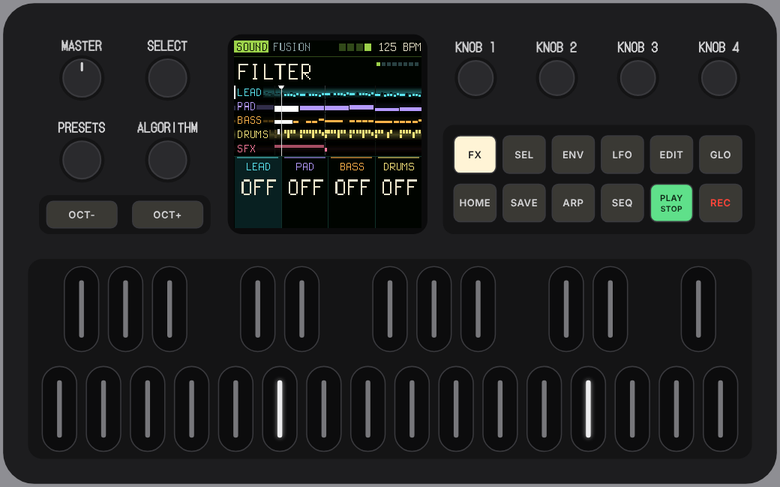
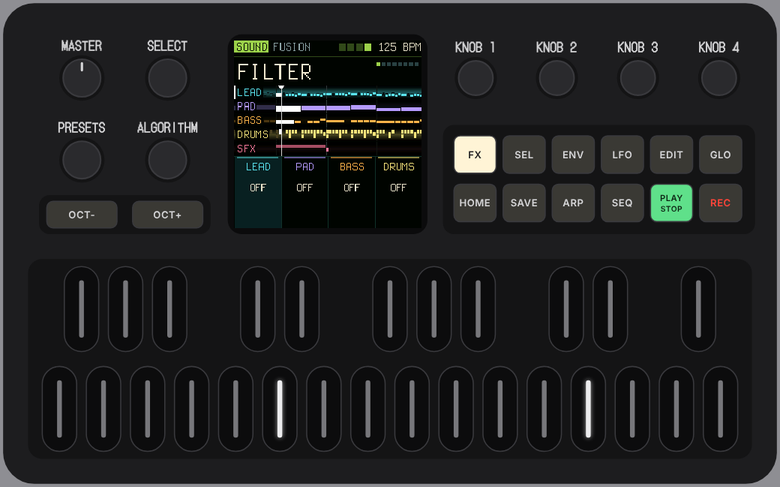
Knob values: words always in the small font
Only short numbers and note names use the large font; a word of three letters
or less (OFF, ON, SUB, N/A) no longer jumps to it. Screenshots made again.

Claude-Session: https://claude.ai/code/session_016qkHXEMEpD1LJg2Gca6rcm

Changed region(s): [[0.3385, 0.1848, 0.5538, 0.308], [0.3077, 0.3696, 0.5538, 0.4004]]

diff --git a/firmware/src/espada_ui.c b/firmware/src/espada_ui.c
@@ -750,8 +750,9 @@ static void draw_knobs(int force)
                 for (pct = 0, i = 0; i < n; i++) if (val[i] >= '0' && val[i] <= '9') pct = pct * 10 + val[i] - '0';
             }
             if (val[0] == '-' && val[1] == '-') { textc(cx, KNOB_Y + 34, "-", C_DIMG, 2); continue; }    /* not for this lane */
-            big = n <= 3;
-            for (i = 0; i < n; i++) if (val[i] >= 'a' && val[i] <= 'z') big = 0;   /* FONT_L has capitals only */
+            /* large: short numbers and note names; every word in the small font, so words never jump in size */
+            big = n <= 3 && ((val[0] >= '0' && val[0] <= '9') || ((val[0] == '-' || val[0] == '+') && val[1] >= '0' && val[1] <= '9')
+                             || (val[0] >= 'A' && val[0] <= 'G' && (n == 1 || (n == 2 && val[1] == '#'))));
             if (big) textc(cx, KNOB_Y + 30, val, hot ? C_WHITE : C_CREAM, 2);
             else { if (n > 8) val[8] = 0; text7(cx - tw7(val) / 2, KNOB_Y + 35, val, hot ? C_WHITE : C_CREAM); }
             if (pct >= 0) { fill(x + 6, KNOB_Y + 60, COL_W - 12, 4, C_GRID); fill(x + 6, KNOB_Y + 60, (COL_W - 12) * clampi(pct, 0, 100) / 100, 4, col); }
